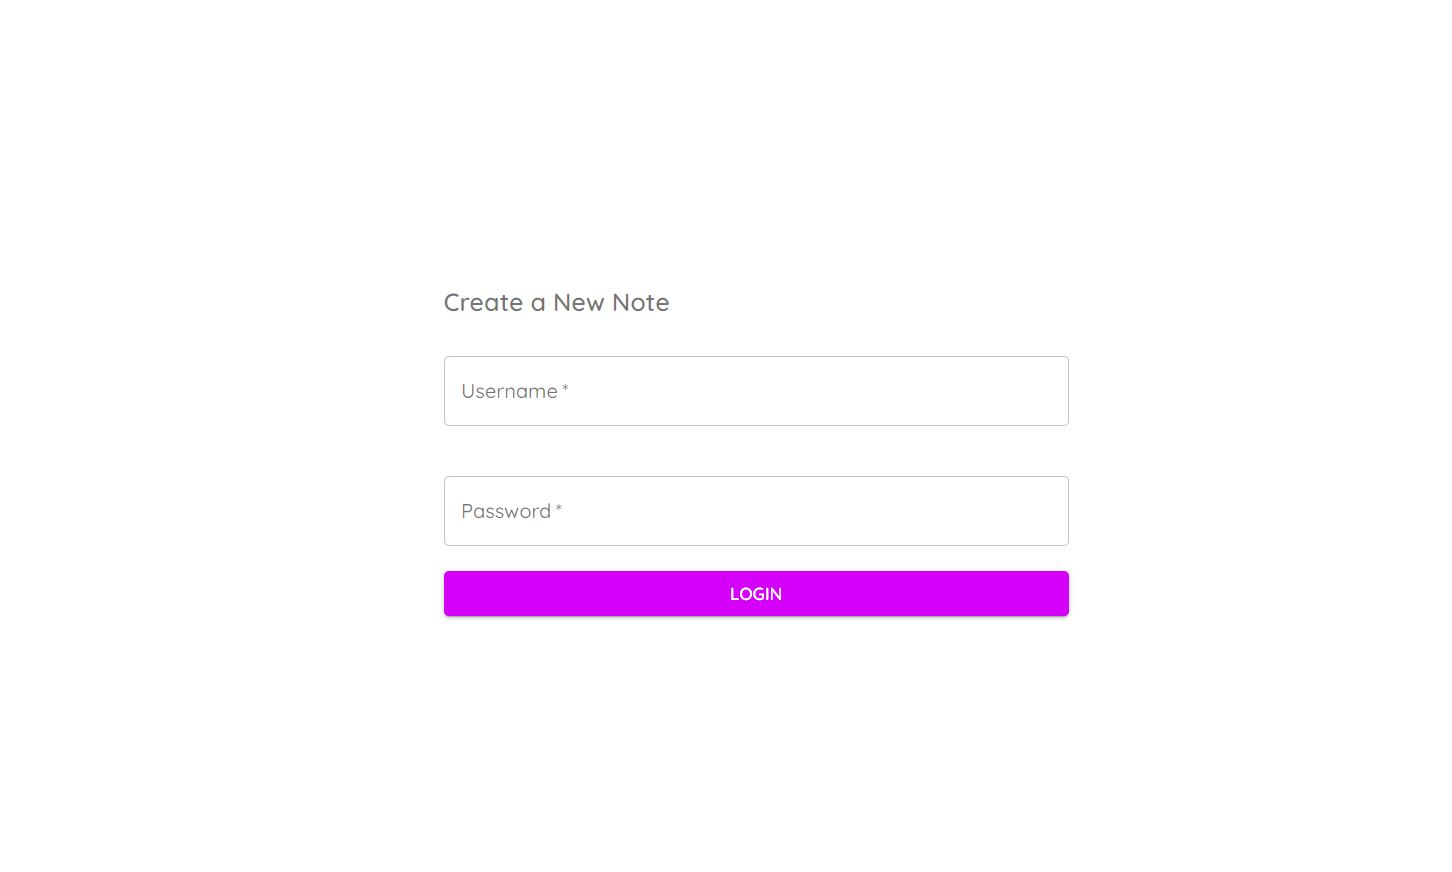
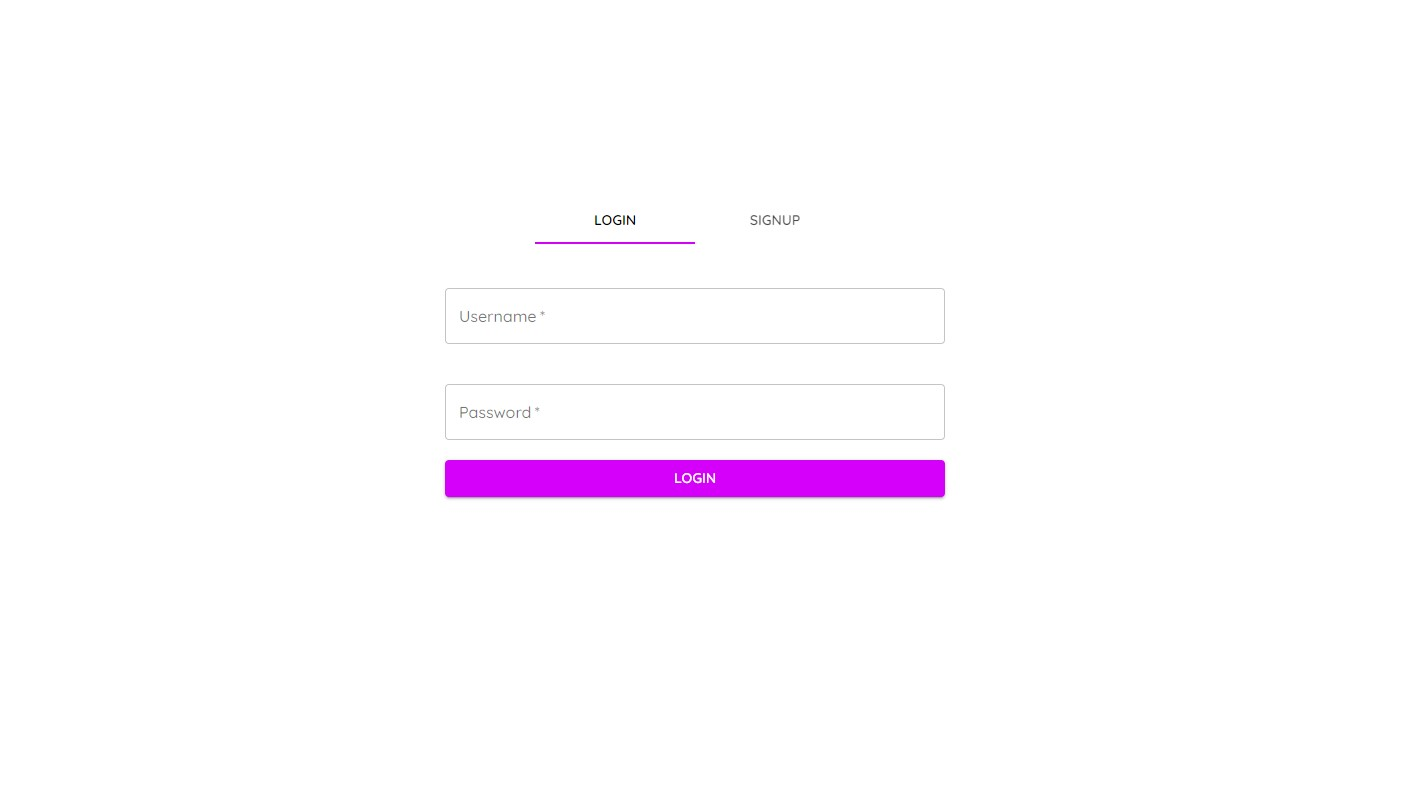
Readme updated

diff --git a/README.md b/README.md
@@ -1,15 +1,91 @@
-### My Notes
-<ul>
-  <li>Multi-user application for storing notes</li>
-  <li>MaterialUI used in React JS</li>
-  <li>API created using Node</li>
-</ul>
+# My Notes
+My Notes is a multi-user application designed for creating and storing notes. It provides an intuitive interface for users to organize their notes in a unified place. The application is built using React JS with MaterialUI for a beautiful user interface, NodeJS for the backend API, and JSON Web Tokens (JWT) for secure user authentication.
 
-## Login Page
-![Login Page](https://github.com/niranjanblank/MyNotes/blob/main/screenshots/login_page.JPG)
+## Featurees
+* Signup Page: New user can signup to user the application.
+* Login Page: Secure user authentication using JWT.
+* Home Page: Main interface where users can access all their notes.
+* Create New Notes Page: Users can quickly and easily create new notes.
 
+## Technologies Used
+* ReactJS: A JavaScript library for building user interfaces.
+* Material UI: A widely-used React UI framework for crafting beautiful user interfaces.
+* NodeJS: A JavaScript runtime built on Chrome's V8 JavaScript engine, used for server-side development.
+* JWT (JSON Web Tokens): A standard for securely transmitting information as a JSON object. It is used for authentication and information exchange.
+* MongoDB: A source-available cross-platform document-oriented database program, classified as a NoSQL database program.
+
+## Project Structure
+This project has the following file structure:
+```
+/
+├── MyNotesAPI/
+│   ├── data/
+│   ├── public/
+│   ├── src/
+│   ├── app.js
+│   └── package.json
+├── screenshots/
+├── src/
+├── .gitignore
+├── README.md
+├── package-lock.json
+└── package.json
+```
+
+* /: This is the root directory that contains all the files.
+* MyNotesAPI/: This directory contains the backend NodeJS application.
+* data/: This directory stores the JWT tokens in local storage.
+* public/: This directory contains static files and images.
+* src/: This is the source directory where the actual application code resides.
+* app.js: Entry point for the Node.js backend.
+* package.json: Specifies the Node.js backend dependencies.
+* screenshots/: This directory includes the screenshots of the application.
+* src/: This is the source directory for the React frontend.
+* .gitignore: This file tells git which files it should not track or maintain a version history for.
+* README.md: A markdown file containing information about the project and guidelines on how to use it.
+* package-lock.json: This is an automatically generated file that is used to specify the exact version of the installed npm dependencies of the project.
+* package.json: This file contains metadata about the project, such as the project's dependencies and scripts for the React frontend.
+
+## Getting Started
+To set up this project locally, you should have NodeJS, npm and MongoDB installed. If not, you can download them from here:
+* Node.js and npm: https://nodejs.org/en/download/
+* MongoDB: https://www.mongodb.com/try/download/community
+
+## Installation
+1. Clone the repo
+```
+git clone https://github.com/niranjanblank/MyNotes
+```
+
+2. Install NPM packages
+```
+cd MyNotes
+npm install
+```
+
+3. Download and run MongoDB service
+4. Run the backend application
+```
+cd MyNotesAPI
+node app.js
+```
+5. In a seperate terminal, run the frontend application.
+```
+npm run start
+```
+6. Open your browser and navigate to http://localhost:3000 . You should see the following page:
+![Login Page](screenshots/login_page.JPG)
+
+7. Register username and password by selecting signup tab
+![Signup Page](screenshots/sign_up_page.JPG)
 ## Home Page
-![Login Page](https://github.com/niranjanblank/MyNotes/blob/main/screenshots/my_notes.JPG)
 
-## Create New Notes Page
-![Create Page](https://github.com/niranjanblank/MyNotes/blob/main/screenshots/create_notes.JPG)
+8. Login using the username and password from login page
+![Login Page](screenshots/login_page.JPG)
+
+9. You can create notes from create note page
+![Create Page](screenshots/create_notes.JPG)
+
+10. You can see all the notes from mynotes page
+![Home Page](screenshots/my_notes.JPG)
+
